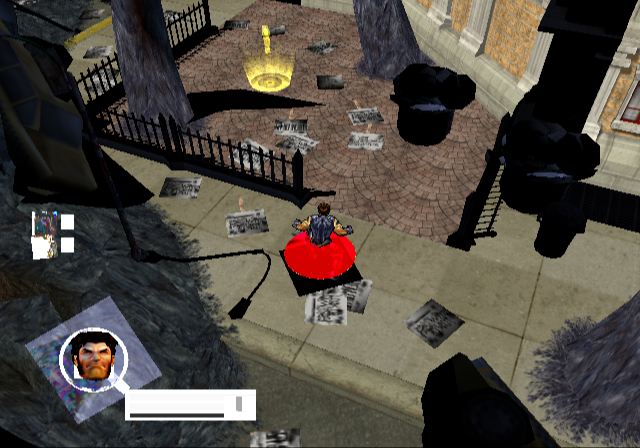
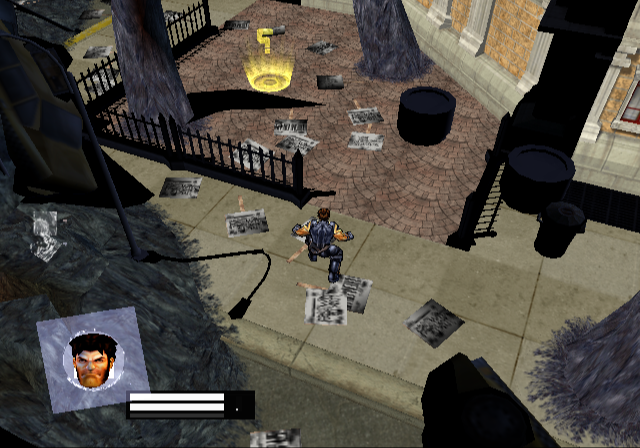
Document first gameplay and add IGB scene inspector

diff --git a/xmen-legends/inspect-igb-scene.py b/xmen-legends/inspect-igb-scene.py
@@ -1,0 +1,261 @@
+#!/usr/bin/env python3
+"""Report authored geometry and render state using igb-blender's parser."""
+
+from __future__ import annotations
+
+import argparse
+import json
+import re
+import sys
+import types
+from pathlib import Path
+
+
+def load_plugin(plugin_root: Path):
+    """Load pure parser modules without importing Blender's bpy entry point."""
+    package_name = "igb_scene_inspector_plugin"
+    package = types.ModuleType(package_name)
+    package.__path__ = [str(plugin_root)]
+    sys.modules[package_name] = package
+
+    reader_module = __import__(
+        f"{package_name}.igb_format.igb_reader",
+        fromlist=["IGBReader"],
+    )
+    classes_module = __import__(
+        f"{package_name}.scene_graph.sg_classes",
+        fromlist=["SceneGraph"],
+    )
+    geometry_module = __import__(
+        f"{package_name}.scene_graph.sg_geometry",
+        fromlist=["extract_geometry"],
+    )
+    materials_module = __import__(
+        f"{package_name}.scene_graph.sg_materials",
+        fromlist=[
+            "extract_alpha_function",
+            "extract_alpha_state",
+            "extract_blend_function",
+            "extract_blend_state",
+            "extract_color_attr",
+            "extract_lighting_state",
+            "extract_material",
+            "extract_texture_bind",
+        ],
+    )
+    lights_module = __import__(
+        f"{package_name}.scene_graph.sg_lights",
+        fromlist=["extract_lights_from_light_set"],
+    )
+    return (
+        reader_module,
+        classes_module,
+        geometry_module,
+        materials_module,
+        lights_module,
+    )
+
+
+def object_name(obj) -> str:
+    if obj is None:
+        return ""
+    for slot, value, field in obj._raw_fields:
+        if slot == 2 and field.short_name == b"String":
+            if isinstance(value, bytes):
+                return value.decode("utf-8", errors="replace")
+            return value if isinstance(value, str) else ""
+    return ""
+
+
+class GeometryCollector:
+    """Mirror igb-blender's inherited AttrSet state without importing bpy."""
+
+    STATE_KEYS = (
+        "material",
+        "textures",
+        "blend_state",
+        "blend_function",
+        "alpha_state",
+        "alpha_function",
+        "color",
+        "lighting",
+    )
+
+    def __init__(self):
+        self.state = {key: None for key in self.STATE_KEYS}
+        self.state["textures"] = {}
+        self.stack = []
+        self.instances = []
+        self.light_sets = []
+
+    def push_state(self):
+        saved = dict(self.state)
+        saved["textures"] = dict(self.state["textures"])
+        self.stack.append(saved)
+
+    def pop_state(self):
+        self.state = self.stack.pop()
+
+    def visit_material_attr(self, attr, _parent):
+        self.state["material"] = attr
+
+    def visit_texture_bind_attr(self, attr, _parent):
+        unit = 0
+        for _slot, value, field in attr._raw_fields:
+            if field.short_name == b"Int":
+                unit = value
+                break
+        self.state["textures"][unit] = attr
+
+    def visit_blend_state_attr(self, attr, _parent):
+        self.state["blend_state"] = attr
+
+    def visit_blend_function_attr(self, attr, _parent):
+        self.state["blend_function"] = attr
+
+    def visit_alpha_state_attr(self, attr, _parent):
+        self.state["alpha_state"] = attr
+
+    def visit_alpha_function_attr(self, attr, _parent):
+        self.state["alpha_function"] = attr
+
+    def visit_color_attr(self, attr, _parent):
+        self.state["color"] = attr
+
+    def visit_lighting_state_attr(self, attr, _parent):
+        self.state["lighting"] = attr
+
+    def visit_geometry_attr(self, attr, transform, parent):
+        snapshot = dict(self.state)
+        snapshot["textures"] = dict(self.state["textures"])
+        self.instances.append((attr, transform, parent, snapshot))
+
+    def visit_light_set(self, light_set, transform):
+        self.light_sets.append((light_set, transform))
+
+
+def parse_args():
+    github_root = Path(__file__).resolve().parents[2]
+    parser = argparse.ArgumentParser(description=__doc__)
+    parser.add_argument("igb", type=Path)
+    parser.add_argument(
+        "--plugin-root",
+        type=Path,
+        default=github_root / "igb-blender",
+        help="Path to the igb-blender checkout",
+    )
+    parser.add_argument(
+        "--filter",
+        default="",
+        help="Case-insensitive regular expression matched against names and textures",
+    )
+    parser.add_argument(
+        "--lights-only",
+        action="store_true",
+        help="Report authored igLightSet values instead of geometry state",
+    )
+    return parser.parse_args()
+
+
+def main() -> int:
+    args = parse_args()
+    (
+        reader_module,
+        classes_module,
+        geometry_module,
+        materials,
+        lights,
+    ) = load_plugin(args.plugin_root.resolve())
+
+    reader = reader_module.IGBReader(str(args.igb.resolve()))
+    reader.read()
+    graph = classes_module.SceneGraph(reader)
+    if not graph.build():
+        raise RuntimeError("igb-blender could not find an Alchemy scene root")
+
+    collector = GeometryCollector()
+    graph.walk(collector)
+    matcher = re.compile(args.filter, re.IGNORECASE) if args.filter else None
+
+    if args.lights_only:
+        light_rows = []
+        for light_set, transform in collector.light_sets:
+            for light in lights.extract_lights_from_light_set(reader, light_set):
+                row = {
+                    "name": light.node_name,
+                    "type": light.blender_type,
+                    "light_id": light.light_id,
+                    "position": list(light.position),
+                    "ambient": list(light.ambient),
+                    "diffuse": list(light.diffuse),
+                    "specular": list(light.specular),
+                    "direction": list(light.direction),
+                    "falloff": light.falloff,
+                    "cutoff": light.cutoff,
+                    "attenuation": list(light.attenuation),
+                    "shininess": light.shininess,
+                    "cast_shadow": light.cast_shadow,
+                    "translation": list(transform[12:15]) if transform is not None else None,
+                }
+                if matcher is None or matcher.search(row["name"]):
+                    light_rows.append(row)
+        json.dump(light_rows, sys.stdout, indent=2, sort_keys=True)
+        sys.stdout.write("\n")
+        return 0
+
+    rows = []
+
+    for attr, transform, parent, state in collector.instances:
+        geometry = geometry_module.extract_geometry(reader, attr)
+        material = materials.extract_material(reader, state["material"])
+        textures = []
+        for unit, texture_obj in sorted(state["textures"].items()):
+            texture = materials.extract_texture_bind(reader, texture_obj)
+            if texture is None or texture.image is None:
+                continue
+            textures.append(
+                {
+                    "unit": unit,
+                    "name": texture.image.name,
+                    "width": texture.image.width,
+                    "height": texture.image.height,
+                    "pixel_format": texture.image.pixel_format,
+                    "clut_entries": texture.image.clut_num_entries,
+                }
+            )
+
+        row = {
+            "geometry_index": attr.index,
+            "attr_set_index": parent.index if parent is not None else None,
+            "name": object_name(parent),
+            "translation": list(transform[12:15]) if transform is not None else None,
+            "vertex_count": geometry.num_verts if geometry is not None else 0,
+            "triangle_index_count": len(geometry.indices) if geometry is not None else 0,
+            "has_normals": geometry.has_normals if geometry is not None else False,
+            "has_vertex_colors": geometry.has_colors if geometry is not None else False,
+            "material_index": state["material"].index if state["material"] is not None else None,
+            "diffuse": list(material.diffuse) if material is not None else None,
+            "ambient": list(material.ambient) if material is not None else None,
+            "specular": list(material.specular) if material is not None else None,
+            "emission": list(material.emission) if material is not None else None,
+            "textures": textures,
+            "blend_state": materials.extract_blend_state(reader, state["blend_state"]),
+            "blend_function": materials.extract_blend_function(reader, state["blend_function"]),
+            "alpha_state": materials.extract_alpha_state(reader, state["alpha_state"]),
+            "alpha_function": materials.extract_alpha_function(reader, state["alpha_function"]),
+            "color": materials.extract_color_attr(reader, state["color"]),
+            "lighting": materials.extract_lighting_state(reader, state["lighting"]),
+        }
+        searchable = "\n".join(
+            [row["name"]] + [texture["name"] for texture in textures]
+        )
+        if matcher is None or matcher.search(searchable):
+            rows.append(row)
+
+    json.dump(rows, sys.stdout, indent=2, sort_keys=True)
+    sys.stdout.write("\n")
+    return 0
+
+
+if __name__ == "__main__":
+    raise SystemExit(main())

diff --git a/README.md b/README.md
@@ -29,7 +29,7 @@ The game now executes far beyond initial boot and has reached each of these mile
 
 The title level reaches a clean, complete Cerebro scene using the game's own GIF transfers; coalescing duplicate pending DMAC completion events fixed the skipped texture upload that previously required a diagnostic repair. The real New Game handler now transitions deterministically from the initialized title level into the first campaign level, and the current clean build renders the complete New York world through VU/GIF/GS. The earlier apparent world-rendering regression was an invalid comparison against the direct `loadMap()` shortcut, which skips campaign initialization and produces only HUD fragments.
 
-The highest-priority gameplay blocker is now localized to lighting data before rasterization. Textures sample correctly, but many mesh packets reach GS with zero or near-zero vertex RGB. The authored New York scene contains nonzero ambient light and valid global-light colors, while the target VU shader receives zero ambient and incomplete light slots. A qword-specific VIF provenance trace found no direct VIF UNPACK write that creates the ambient qword during the target interval. The next investigation is therefore the VU or mapped-memory store path that constructs that table, not another broad GS or texture probe.
+The highest-priority gameplay blocker is now localized to Alchemy color and lighting state before rasterization. Inspection through `igb-blender` confirms that the affected props use valid one-byte PSMT8 indices with 256-entry RGBA CLUTs. They have normals but no baked vertex colors, so they depend on runtime lighting; the authored scene supplies a dark-blue ambient light, two directional world lights, and local point lights. Runtime tracing instead finds a zero current-color vector feeding the light packet and therefore zero or near-zero vertex RGB. The investigation is following the `igColorAttr` state-copy path that supplies that vector rather than treating the textures as malformed.
 
 The separate retail-startup blocker remains correct Sofdec output. The demux advances through each movie and its ADX audio header and blocks arrive intact, but visible decoded frames and audible movie playback are not yet correct. The full acceptance target remains unfinished.
 
@@ -46,7 +46,7 @@ These are direct runtime framebuffer captures, not emulator or desktop captures.
 
 ![First New York gameplay scene rendered by the current recompiled runtime](docs/screenshots/first-gameplay.png)
 
-This current-build frame comes from the real Begin Story campaign flow and renders the environment, Wolverine, props, effects, and HUD. Black materials, the red ground effect, and corrupted HUD elements remain visible, so this is a major bring-up milestone rather than release-quality gameplay.
+This current-build frame comes from the real Begin Story campaign flow and renders the environment, Wolverine, props, effects, and HUD. Unlit black props, missing foliage, and incomplete HUD colors remain visible, so this is a major bring-up milestone rather than release-quality gameplay.
 
 ## Repository Layout
 
@@ -57,8 +57,9 @@ This current-build frame comes from the real Begin Story campaign flow and rende
 | `xmen-legends/xmen-legends.resume-entry-points.observed.txt` | Validated internal callable entry points |
 | `xmen-legends/dev-overrides/` | Reversible startup and gameplay diagnostic scripts |
 | `xmen-legends/apply-generated-first-level-probe.ps1` | Reapplies the deterministic native New Game probe after regeneration |
-| `xmen-legends/run-guarded-probe.ps1` | Bounded, low-priority runtime probe and artifact retention |
+| `xmen-legends/run-guarded-probe.ps1` | Bounded runtime probe and artifact retention |
 | `xmen-legends/cleanup-generated-artifacts.ps1` | Removal of obsolete builds, captures, and logs |
+| `xmen-legends/inspect-igb-scene.py` | Reports authored geometry, PSMT8/CLUT, material, and light state through `igb-blender` |
 
 The PS2Recomp checkout, extracted disc, ELF, generated C++, build products, memory cards, and probe captures are deliberately ignored. They are local inputs or reproducible artifacts, not redistributable project source.
 
@@ -117,7 +118,7 @@ Push-Location xmen-legends/disc
 Pop-Location
 ```
 
-The development scripts assume this layout. `run-guarded-probe.ps1` also caps the runtime at Below Normal priority, four logical processors, bounded logs, and bounded retained captures so repeated investigation does not monopolize the host or grow the workspace indefinitely.
+The development scripts assume this layout. Compiler, recompiler, CMake, and MSBuild work runs at Below Normal priority with one compiler worker. `run-guarded-probe.ps1` keeps the visible, user-closable runtime at Normal priority, limits it to four logical processors, and bounds retained logs and captures so repeated investigation does not monopolize the host or grow the workspace indefinitely.
 
 ## Controls
 
@@ -145,7 +146,7 @@ Input is implemented, but the complete retail flow is not yet ready for normal p
 
 ## Roadmap
 
-1. Trace the VU microprogram stores that construct the gameplay light table and reduce the result to a reusable PS2Recomp fix.
+1. Repair the Alchemy color/light state path that currently supplies a zero modulation vector to gameplay light packets, then reduce any runtime defect to a reusable PS2Recomp fix.
 2. Repair gameplay material lighting, effects, blending, and HUD rendering, then validate normal controller input and game audio.
 3. Complete Sofdec video decode/presentation and movie audio playback on the retail startup path.
 4. Validate the complete legal-to-title-to-campaign flow without development overrides and package a reproducible PC build process.
@@ -154,7 +155,7 @@ Input is implemented, but the complete retail flow is not yet ready for normal p
 
 Reproduction notes, focused PS2 hardware tests, and generally useful PS2Recomp fixes are welcome. Keep copyrighted game files, extracted assets, generated game code, build products, and probe logs out of commits. Generic runtime changes should include a focused test and be submitted separately to upstream PS2Recomp; game-specific maps, scripts, and diagnostics belong in this repository until their behavior is understood well enough to generalize.
 
-Use `xmen-legends/run-guarded-probe.ps1` for bounded runtime tests and `xmen-legends/cleanup-generated-artifacts.ps1` after investigation. The scripts keep probes at Below Normal priority, constrain CPU affinity, and retain only explicitly pinned evidence.
+Use `xmen-legends/run-guarded-probe.ps1` for bounded runtime tests and `xmen-legends/cleanup-generated-artifacts.ps1` after investigation. Runtime probes remain at Normal priority and are user-closable; build tools run at Below Normal priority. The scripts constrain CPU affinity and retain only explicitly pinned evidence.
 
 ## Upstream Work
 
